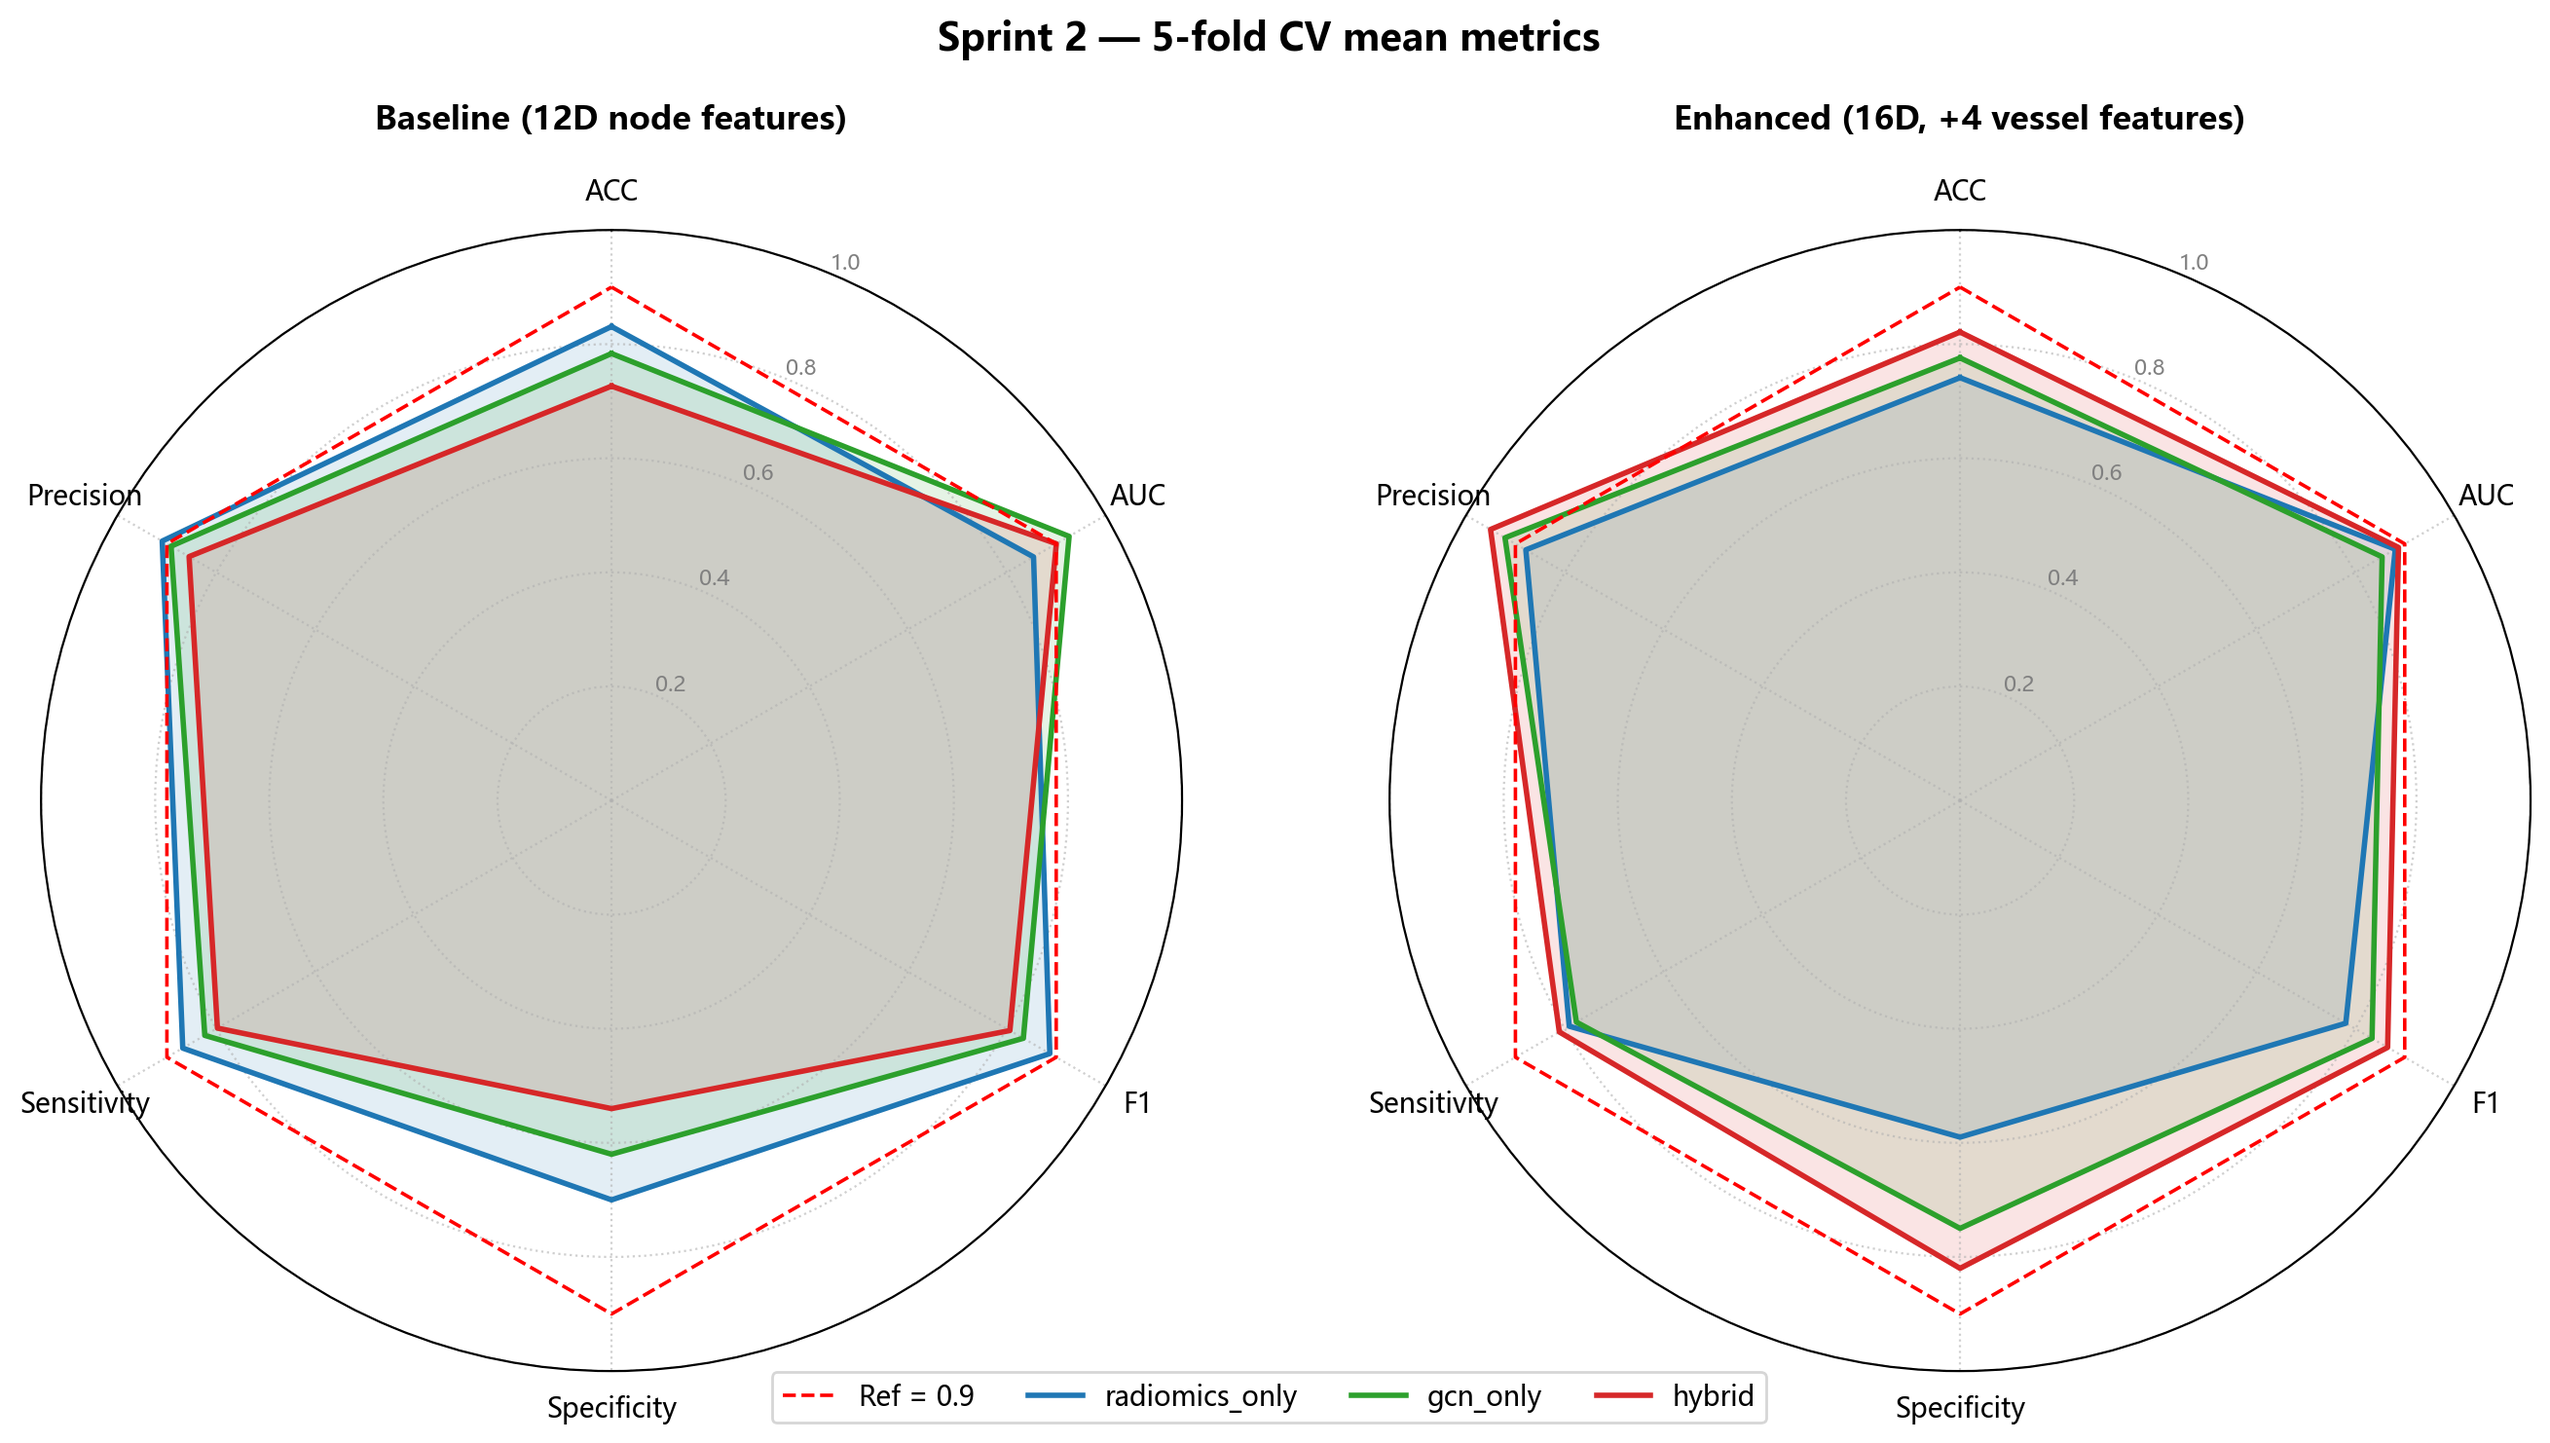
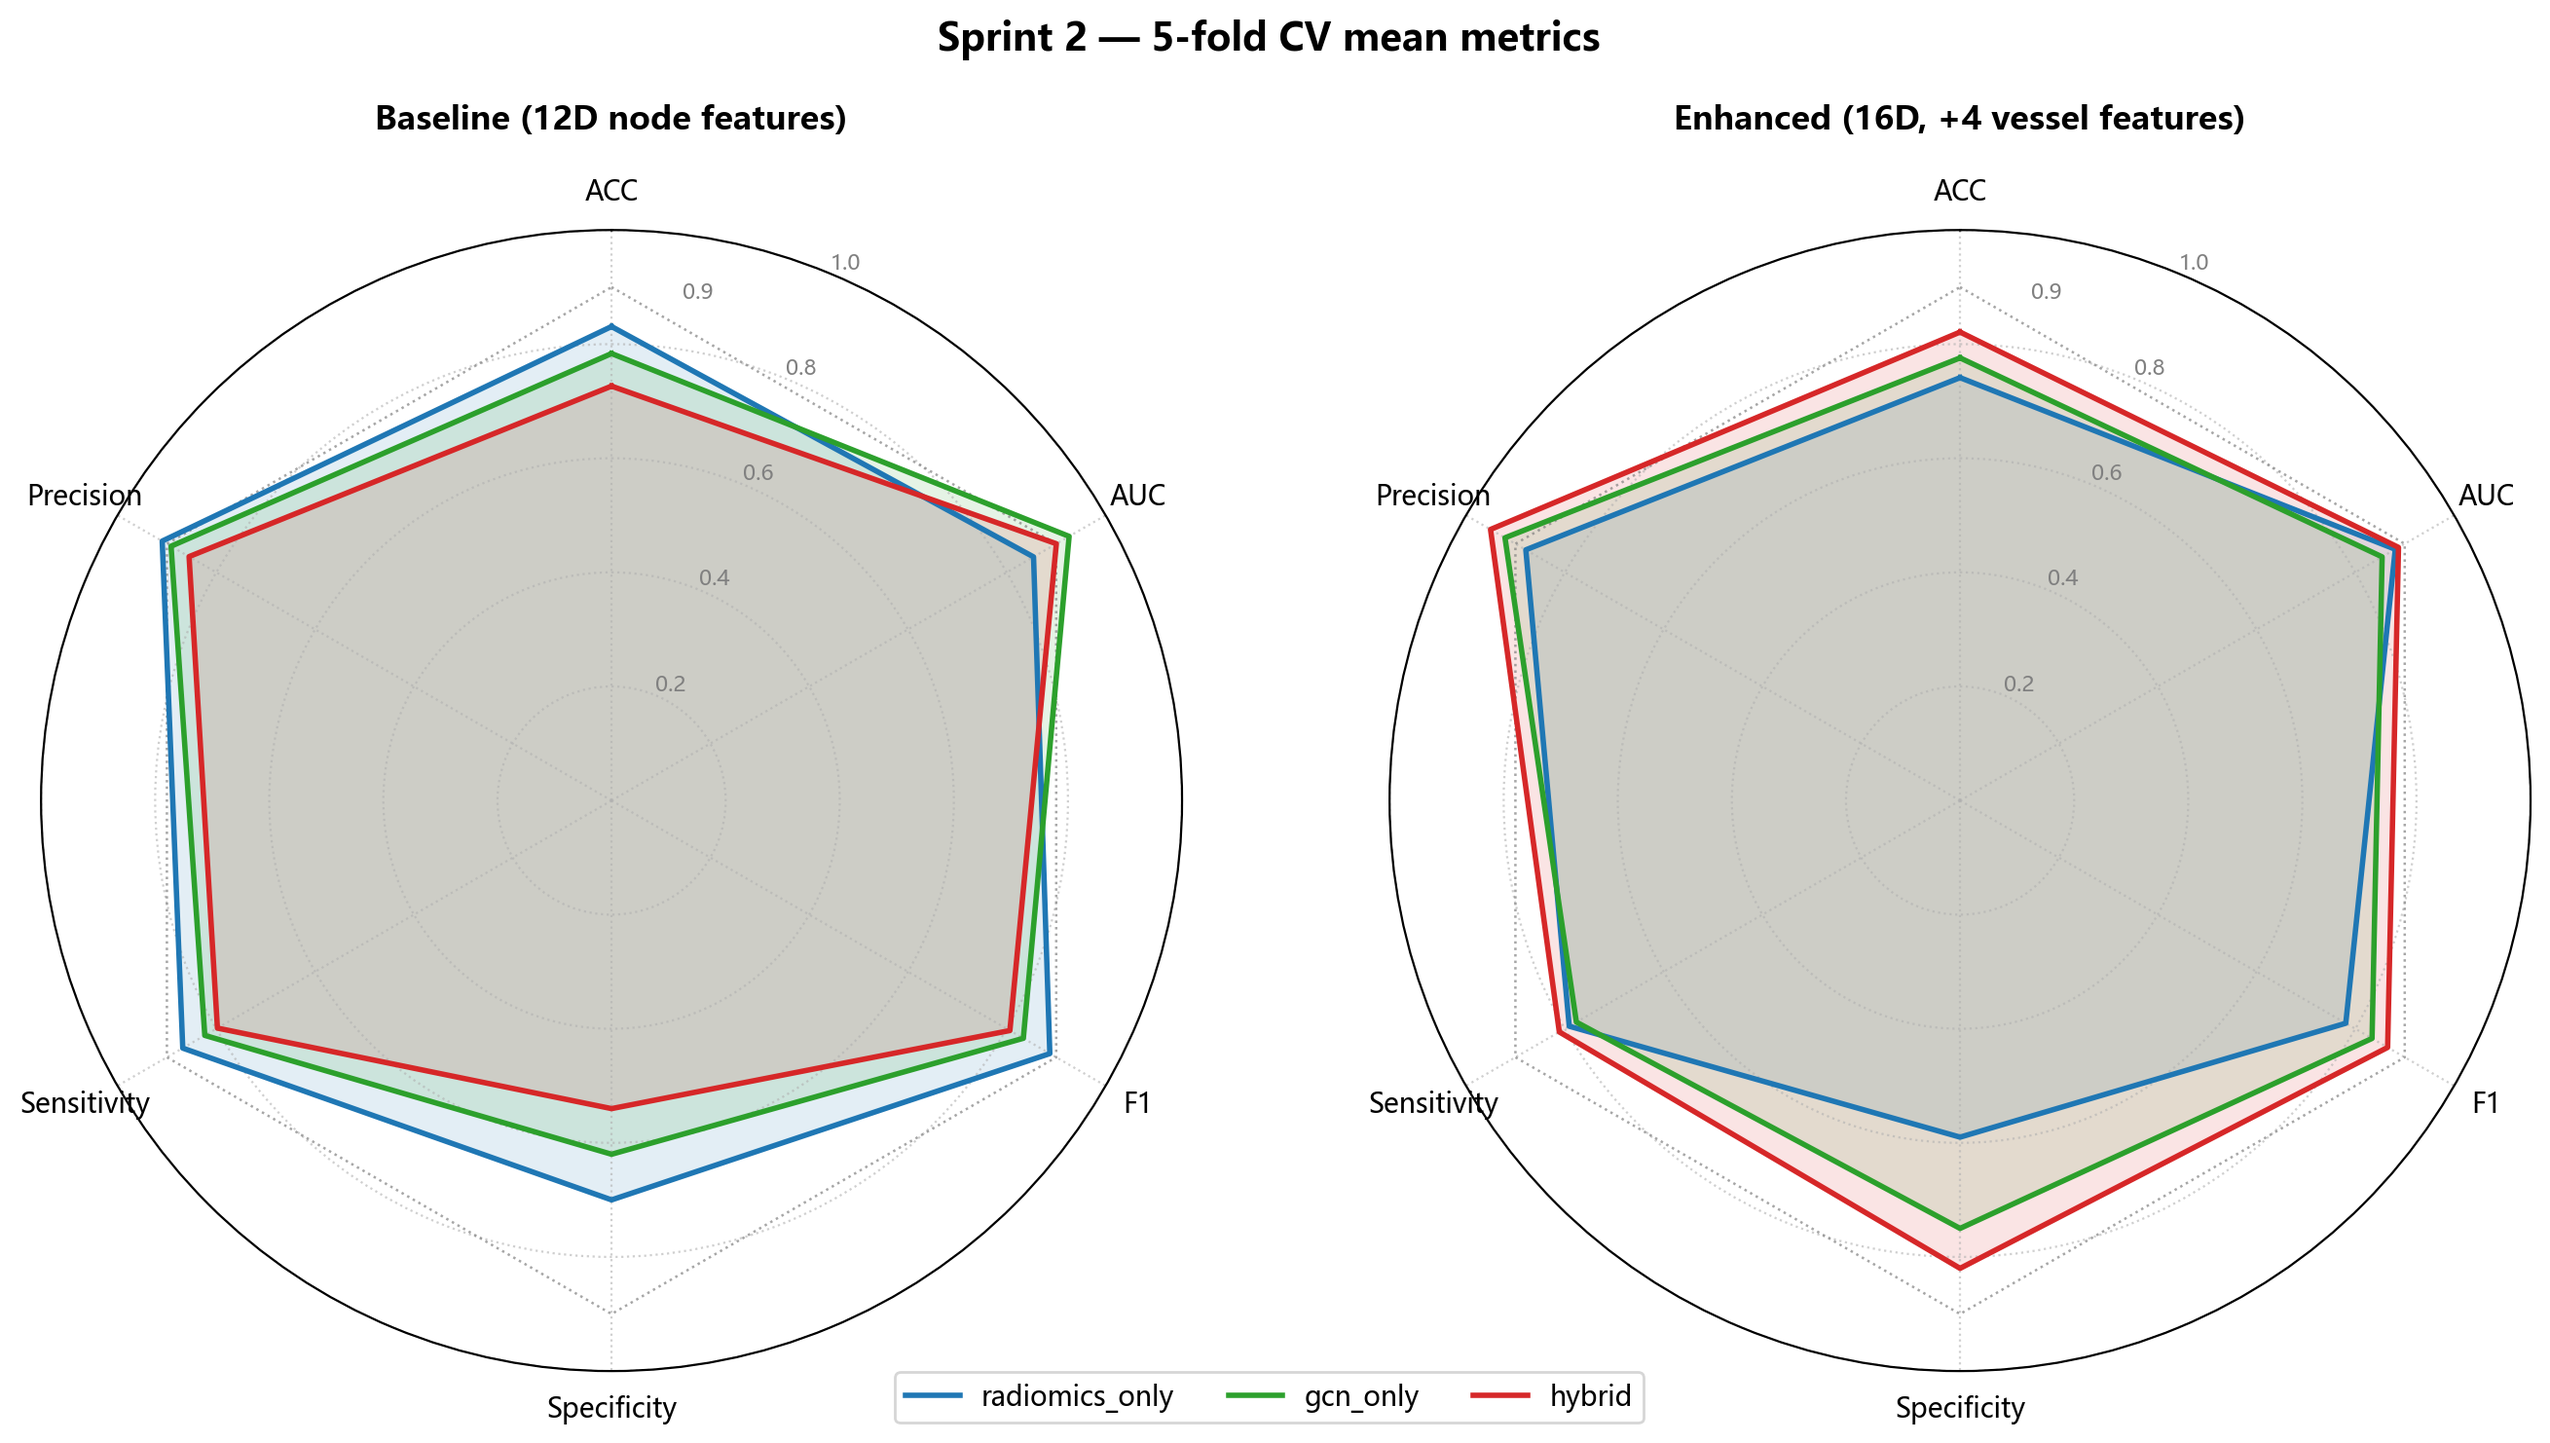
style: de-emphasize 0.9 reference ring (gray dotted + small inline label)

Changed region(s): [[0.3093, 0.9622, 0.6804, 0.9933]]

diff --git a/make_report.py b/make_report.py
@@ -80,7 +80,9 @@ def radar_axes(ax, n):
 def plot_one(ax, data, feat, title):
     angles = radar_axes(ax, len(METRICS))
     ref = [0.9] * len(METRICS) + [0.9]
-    ax.plot(angles, ref, color="red", linestyle="--", linewidth=1.3, label="Ref = 0.9", zorder=3)
+    ax.plot(angles, ref, color="gray", linestyle=":", linewidth=0.9, alpha=0.7, zorder=2)
+    ax.text(np.deg2rad(8), 0.9, "0.9", fontsize=8, color="gray",
+            ha="left", va="center")
 
     colors = {"radiomics_only": "#1f77b4", "gcn_only": "#2ca02c", "hybrid": "#d62728"}
     for mode in MODES:
@@ -108,7 +110,9 @@ def plot_radar_combined(data: dict, path: Path) -> None:
     fig, ax = plt.subplots(figsize=(9, 9), subplot_kw=dict(polar=True))
     angles = radar_axes(ax, len(METRICS))
     ref = [0.9] * len(METRICS) + [0.9]
-    ax.plot(angles, ref, color="red", linestyle="--", linewidth=1.5, label="Ref = 0.9", zorder=3)
+    ax.plot(angles, ref, color="gray", linestyle=":", linewidth=0.9, alpha=0.7, zorder=2)
+    ax.text(np.deg2rad(8), 0.9, "0.9", fontsize=8, color="gray",
+            ha="left", va="center")
 
     palette = {
         ("baseline", "radiomics_only"): ("#1f77b4", "-"),
